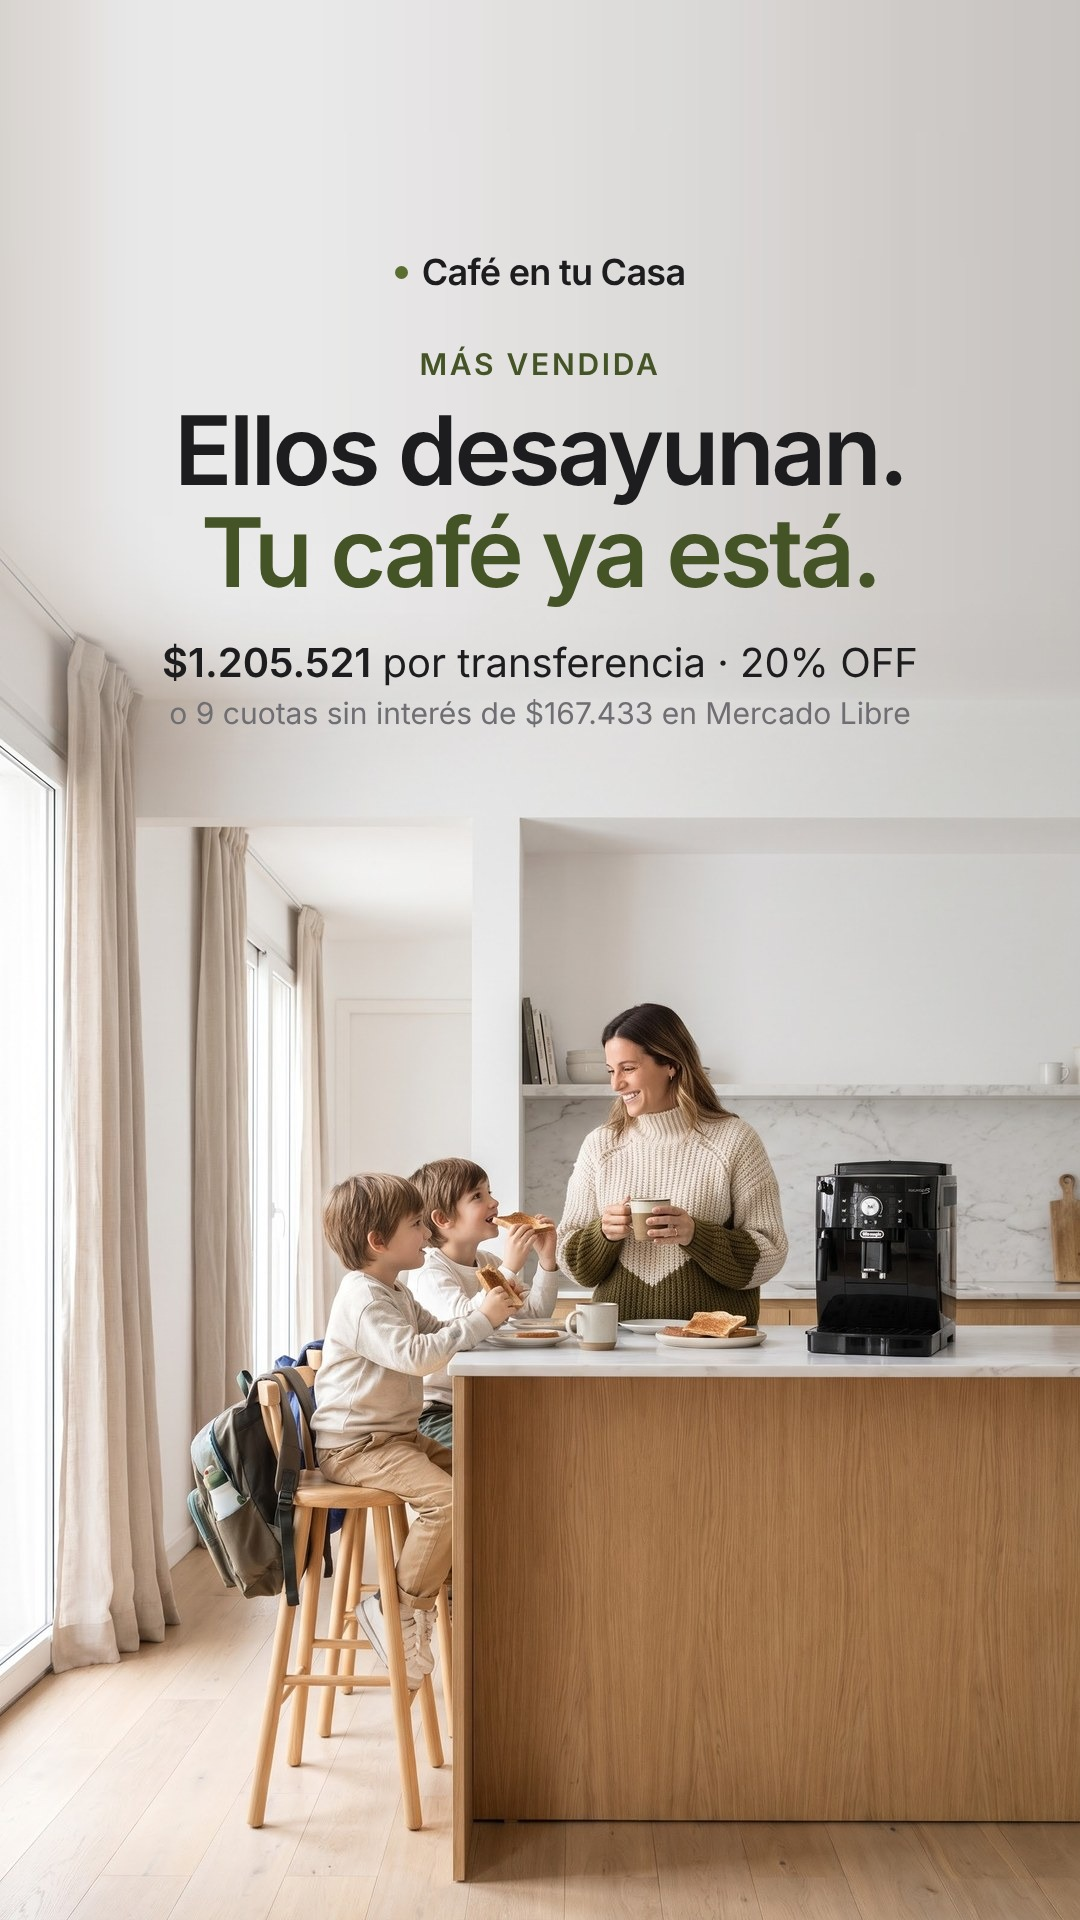
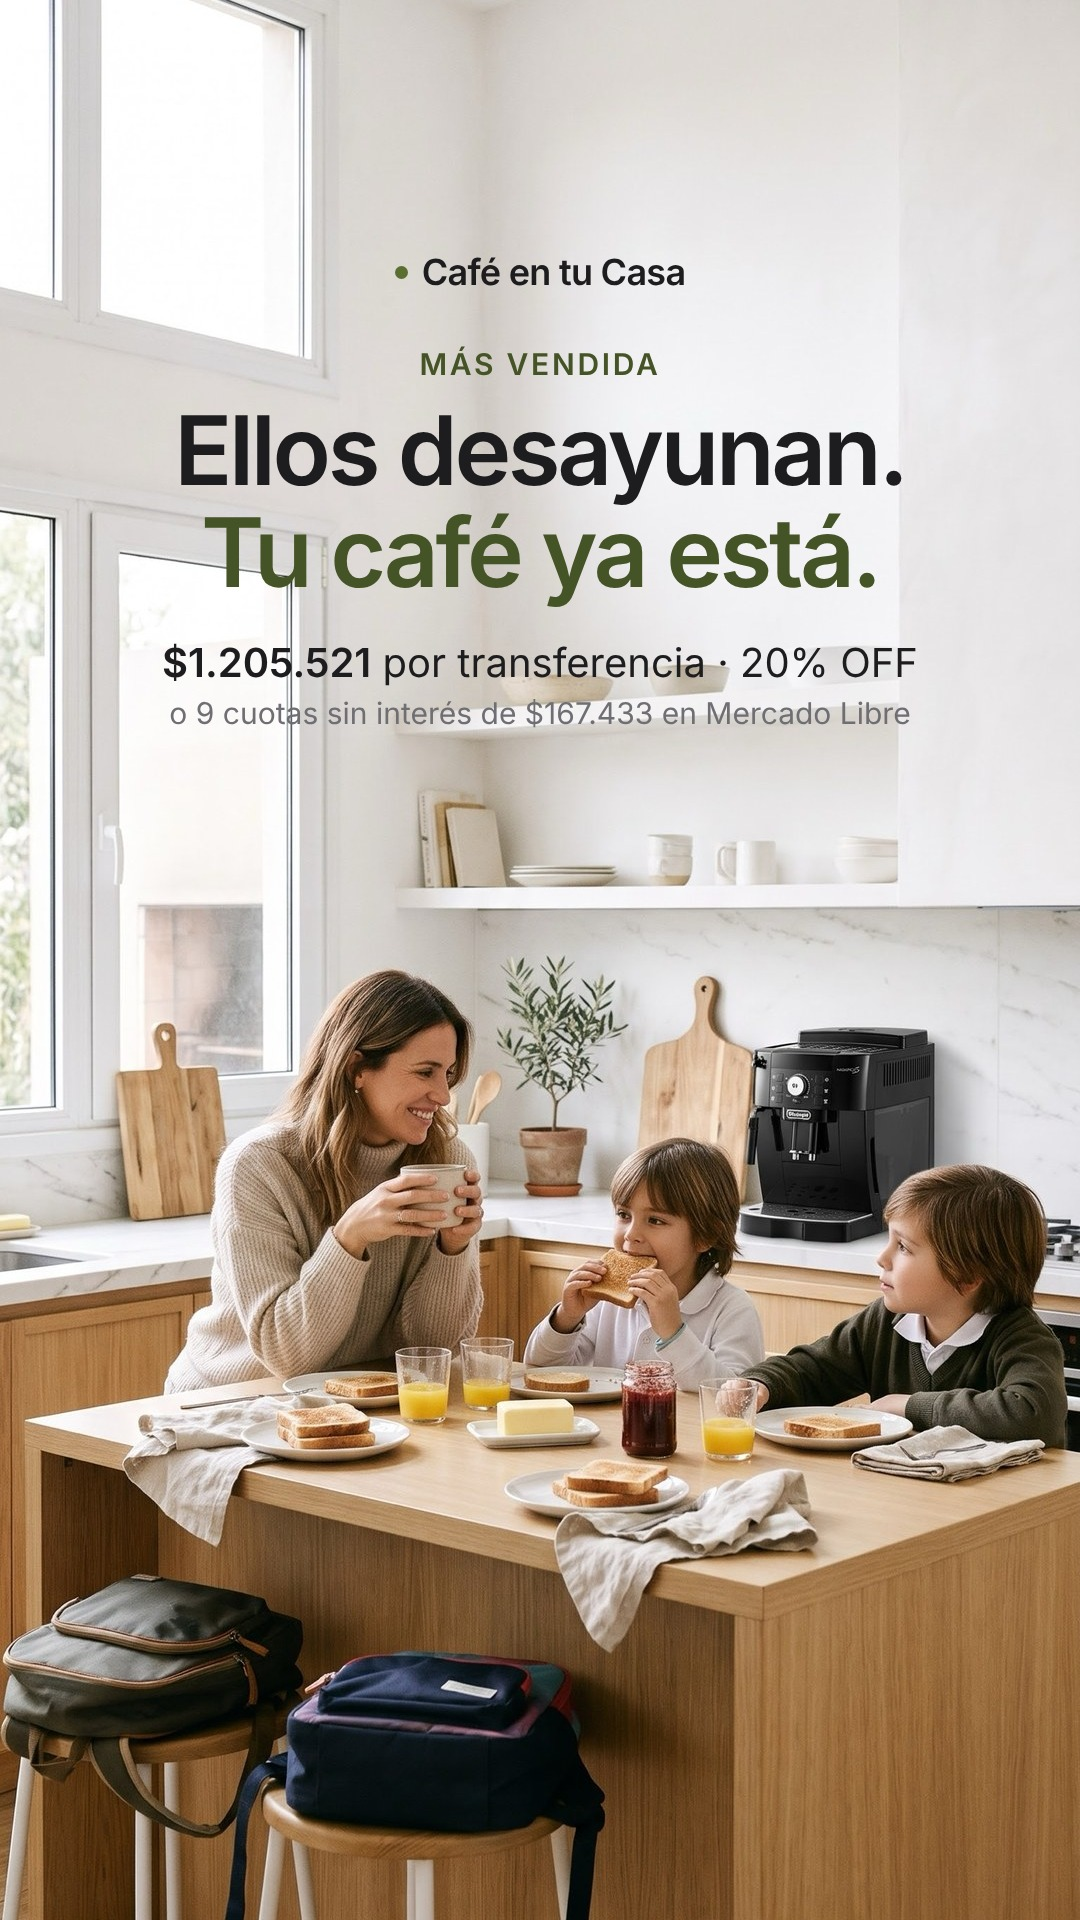
Historias: fotos nuevas (home office, desayuno, noche de estudio) y encuesta ¿mate o café?
Claude-Session: https://claude.ai/code/session_019YKpfrztqKhPwAz7rEXRyM

diff --git a/instagram/contenido.js b/instagram/contenido.js
@@ -493,9 +493,9 @@ const PIEZAS = [
     titulo: 'Magnifica S en casa (fotos de ambiente)',
     caption: '',
     placas: [
-      { t: 'escena', img: 'assets/img/escenas/magnifica-mueble.jpg',
-        ep: M.modelo, h: 'Recién molido,<br><em>con un botón.</em>' },
-      { t: 'escena', img: 'assets/img/escenas/magnifica-desayuno.jpg',
+      { t: 'escena', img: 'assets/img/escenas/magnifica-home-office.jpg',
+        ep: M.modelo, h: 'Home office,<br><em>café de verdad.</em>' },
+      { t: 'escena', img: 'assets/img/escenas/magnifica-desayuno-familia.jpg',
         ep: M.etiqueta, h: 'Ellos desayunan.<br><em>Tu café ya está.</em>',
         precio: fmt(P.transferencia(M)), nota: `por transferencia · ${OFF}% OFF`,
         cuotas: `o ${M.cuotas} cuotas sin interés de ${fmt(P.cuota(M))} en Mercado Libre` }
@@ -503,15 +503,15 @@ const PIEZAS = [
   },
   {
     id: 'x3-historia-dedica-encuesta', semana: 6, dia: 'A definir', tipo: 'historia',
-    titulo: 'Dedica + encuesta ¿Magnifica S o Dedica?',
+    titulo: 'Dedica + encuesta ¿mate o café?',
     caption: '',
     placas: [
       { t: 'escena', img: 'assets/img/escenas/dedica-ventana.jpg',
         ep: `${D.modelo.split(' ')[0]} · ${cm(D.medidas.ancho)} de ancho`, h: 'Tu rincón,<br><em>tu ritual.</em>',
         precio: fmt(P.transferencia(D)), nota: `por transferencia · ${OFF}% OFF`,
         cuotas: `o ${D.cuotas} cuotas sin interés de ${fmt(P.cuota(D))} en Mercado Libre` },
-      { t: 'escena', tono: 'oscuro', img: 'assets/img/escenas/magnifica-estudio.jpg',
-        ep: 'Encuesta · votá abajo 👇', h: `¿${M.modelo}<br><em>o ${D.modelo.split(' ')[0]}?</em>` }
+      { t: 'escena', tono: 'oscuro', img: 'assets/img/escenas/magnifica-estudio-noche.jpg',
+        ep: 'Encuesta · votá abajo 👇', h: 'Noche de estudio:<br><em>¿mate o café?</em>' }
     ]
   }
 ];

diff --git a/instagram/pieza.css b/instagram/pieza.css
@@ -114,3 +114,6 @@ h2 { font-size: 72px; font-weight: 600; line-height: 1.07; letter-spacing: -.03e
 .escena.oscuro .ep { color: #c5dd96; }
 .escena.oscuro h1 em { color: #c5dd96; }
 .escena.oscuro .precio { color: #f5f5f7; }
+.escena.oscuro .marca, .escena.oscuro main { text-shadow: 0 2px 24px rgba(0, 0, 0, .45); }
+.escena.oscuro .ep { color: #d8eaa8; }
+.escena.oscuro h1 em { color: #d8eaa8; }
